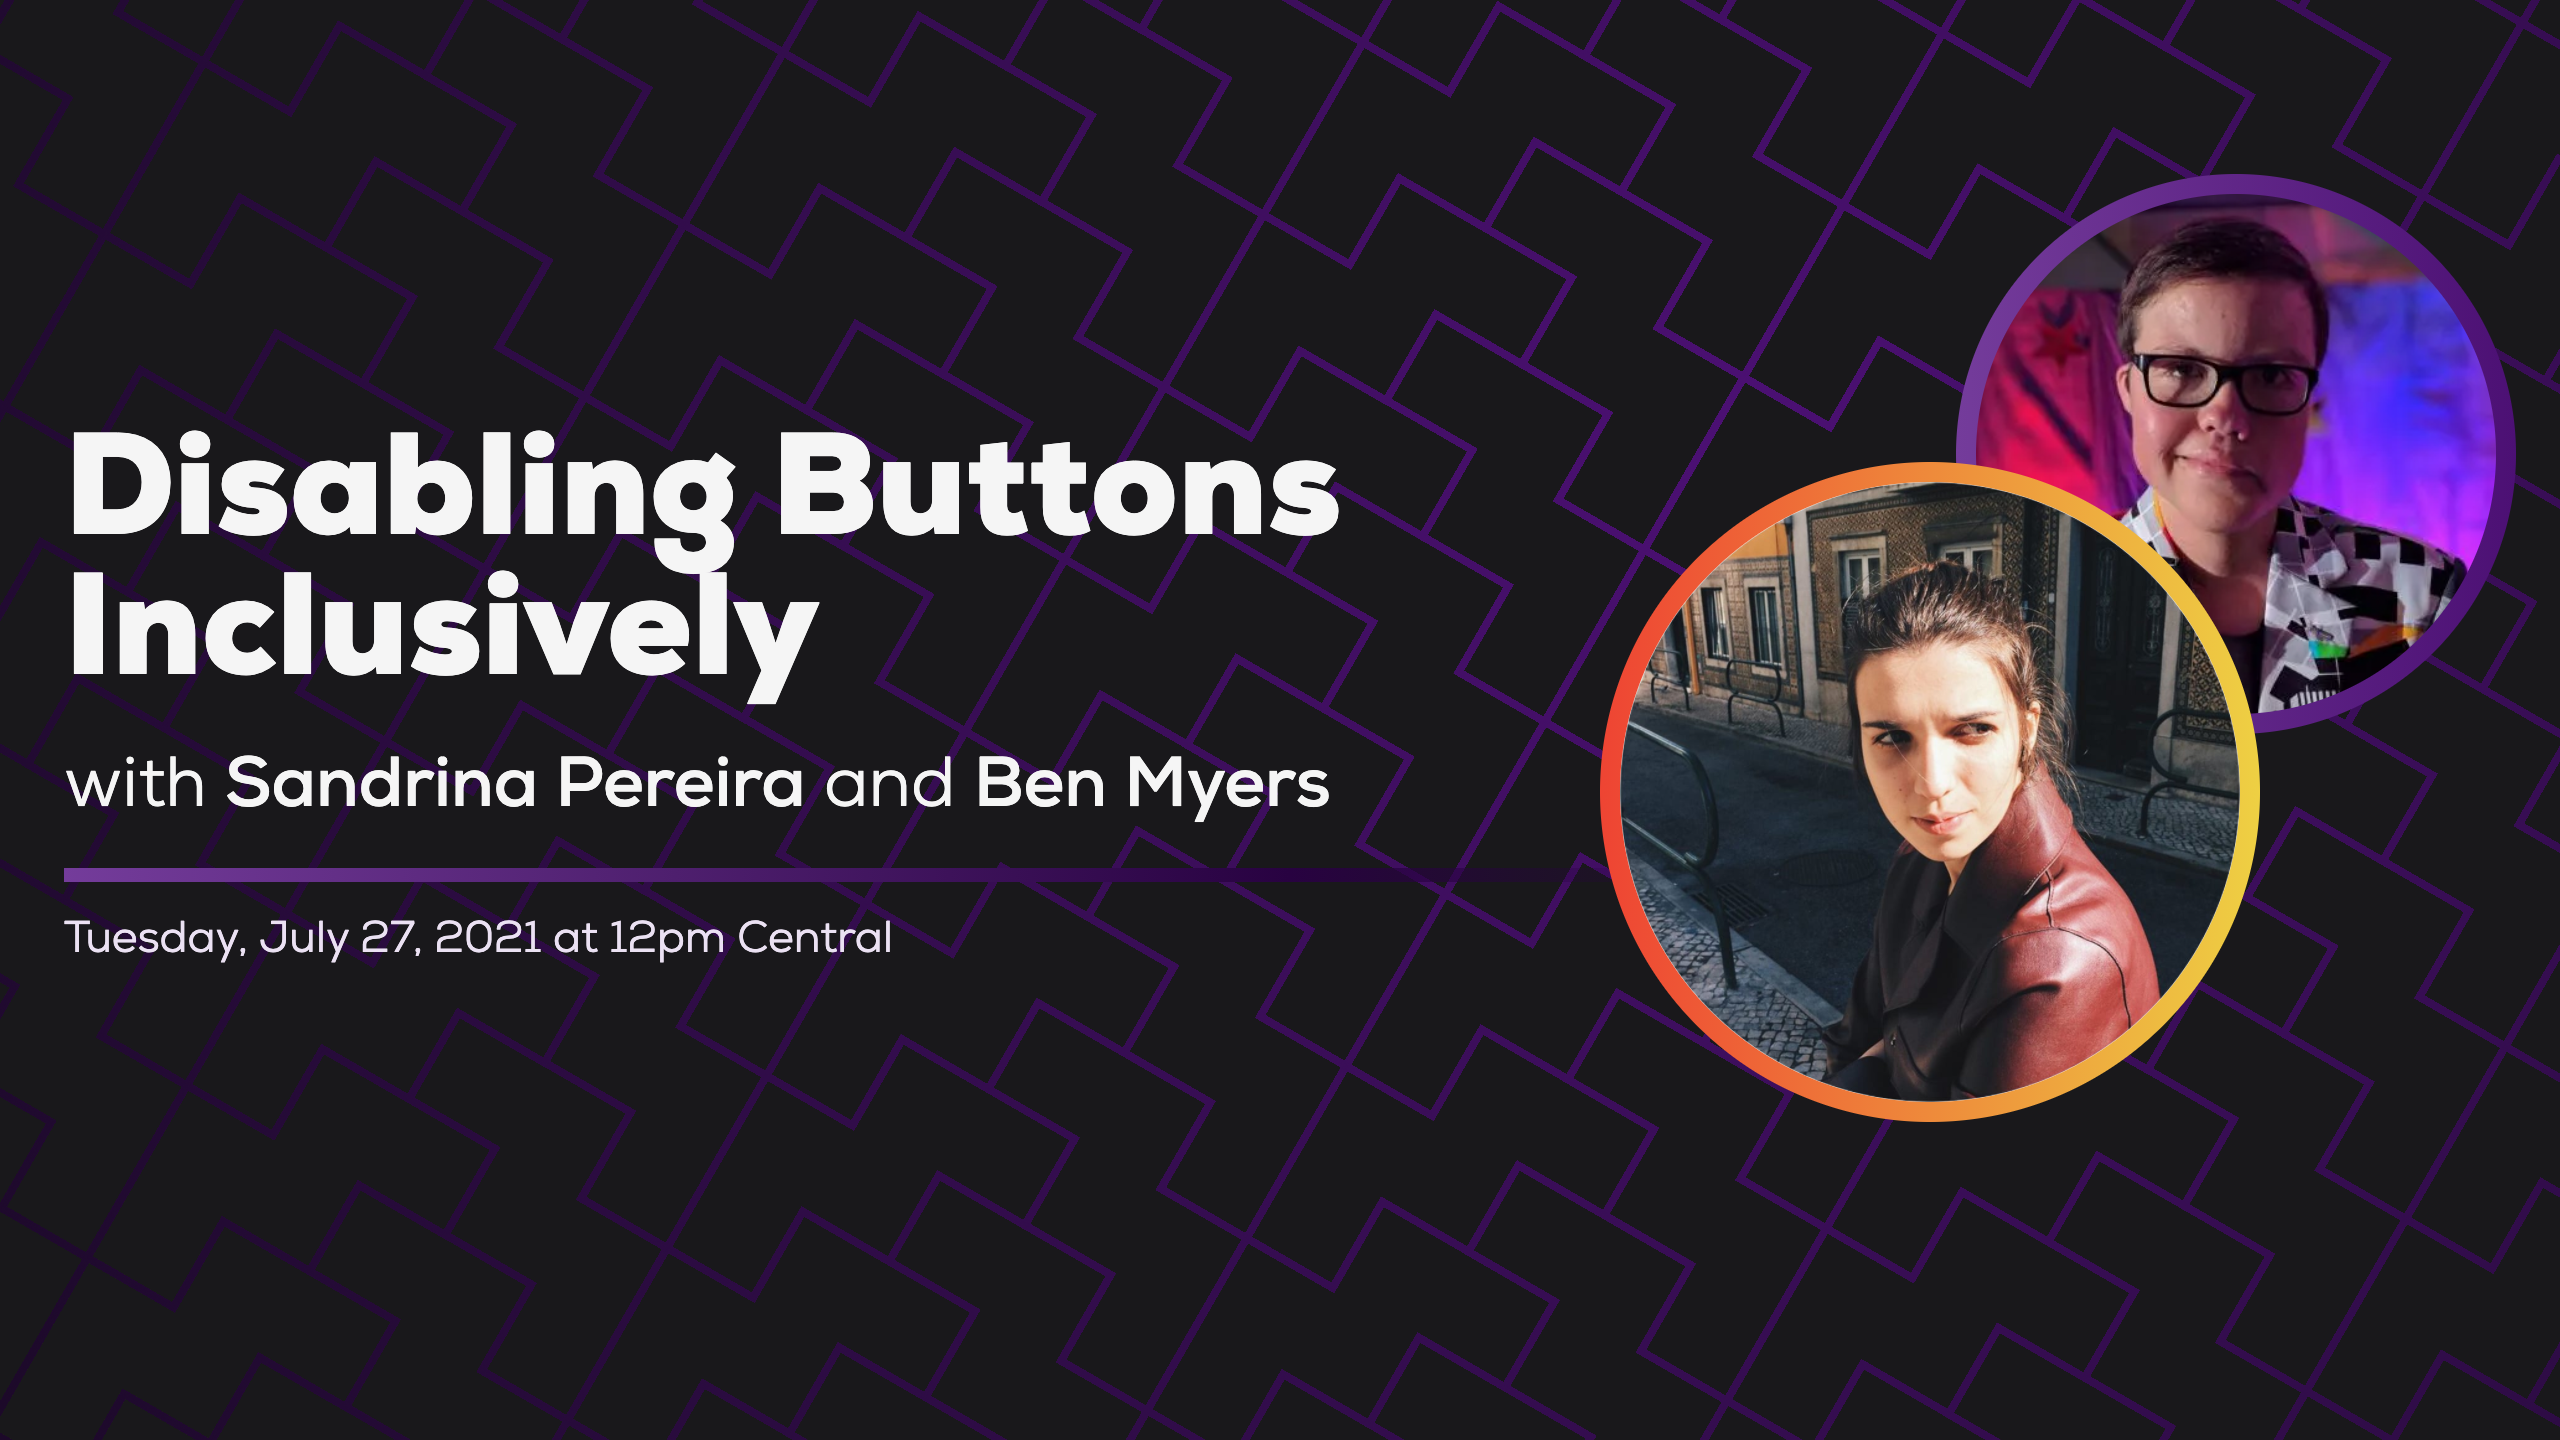
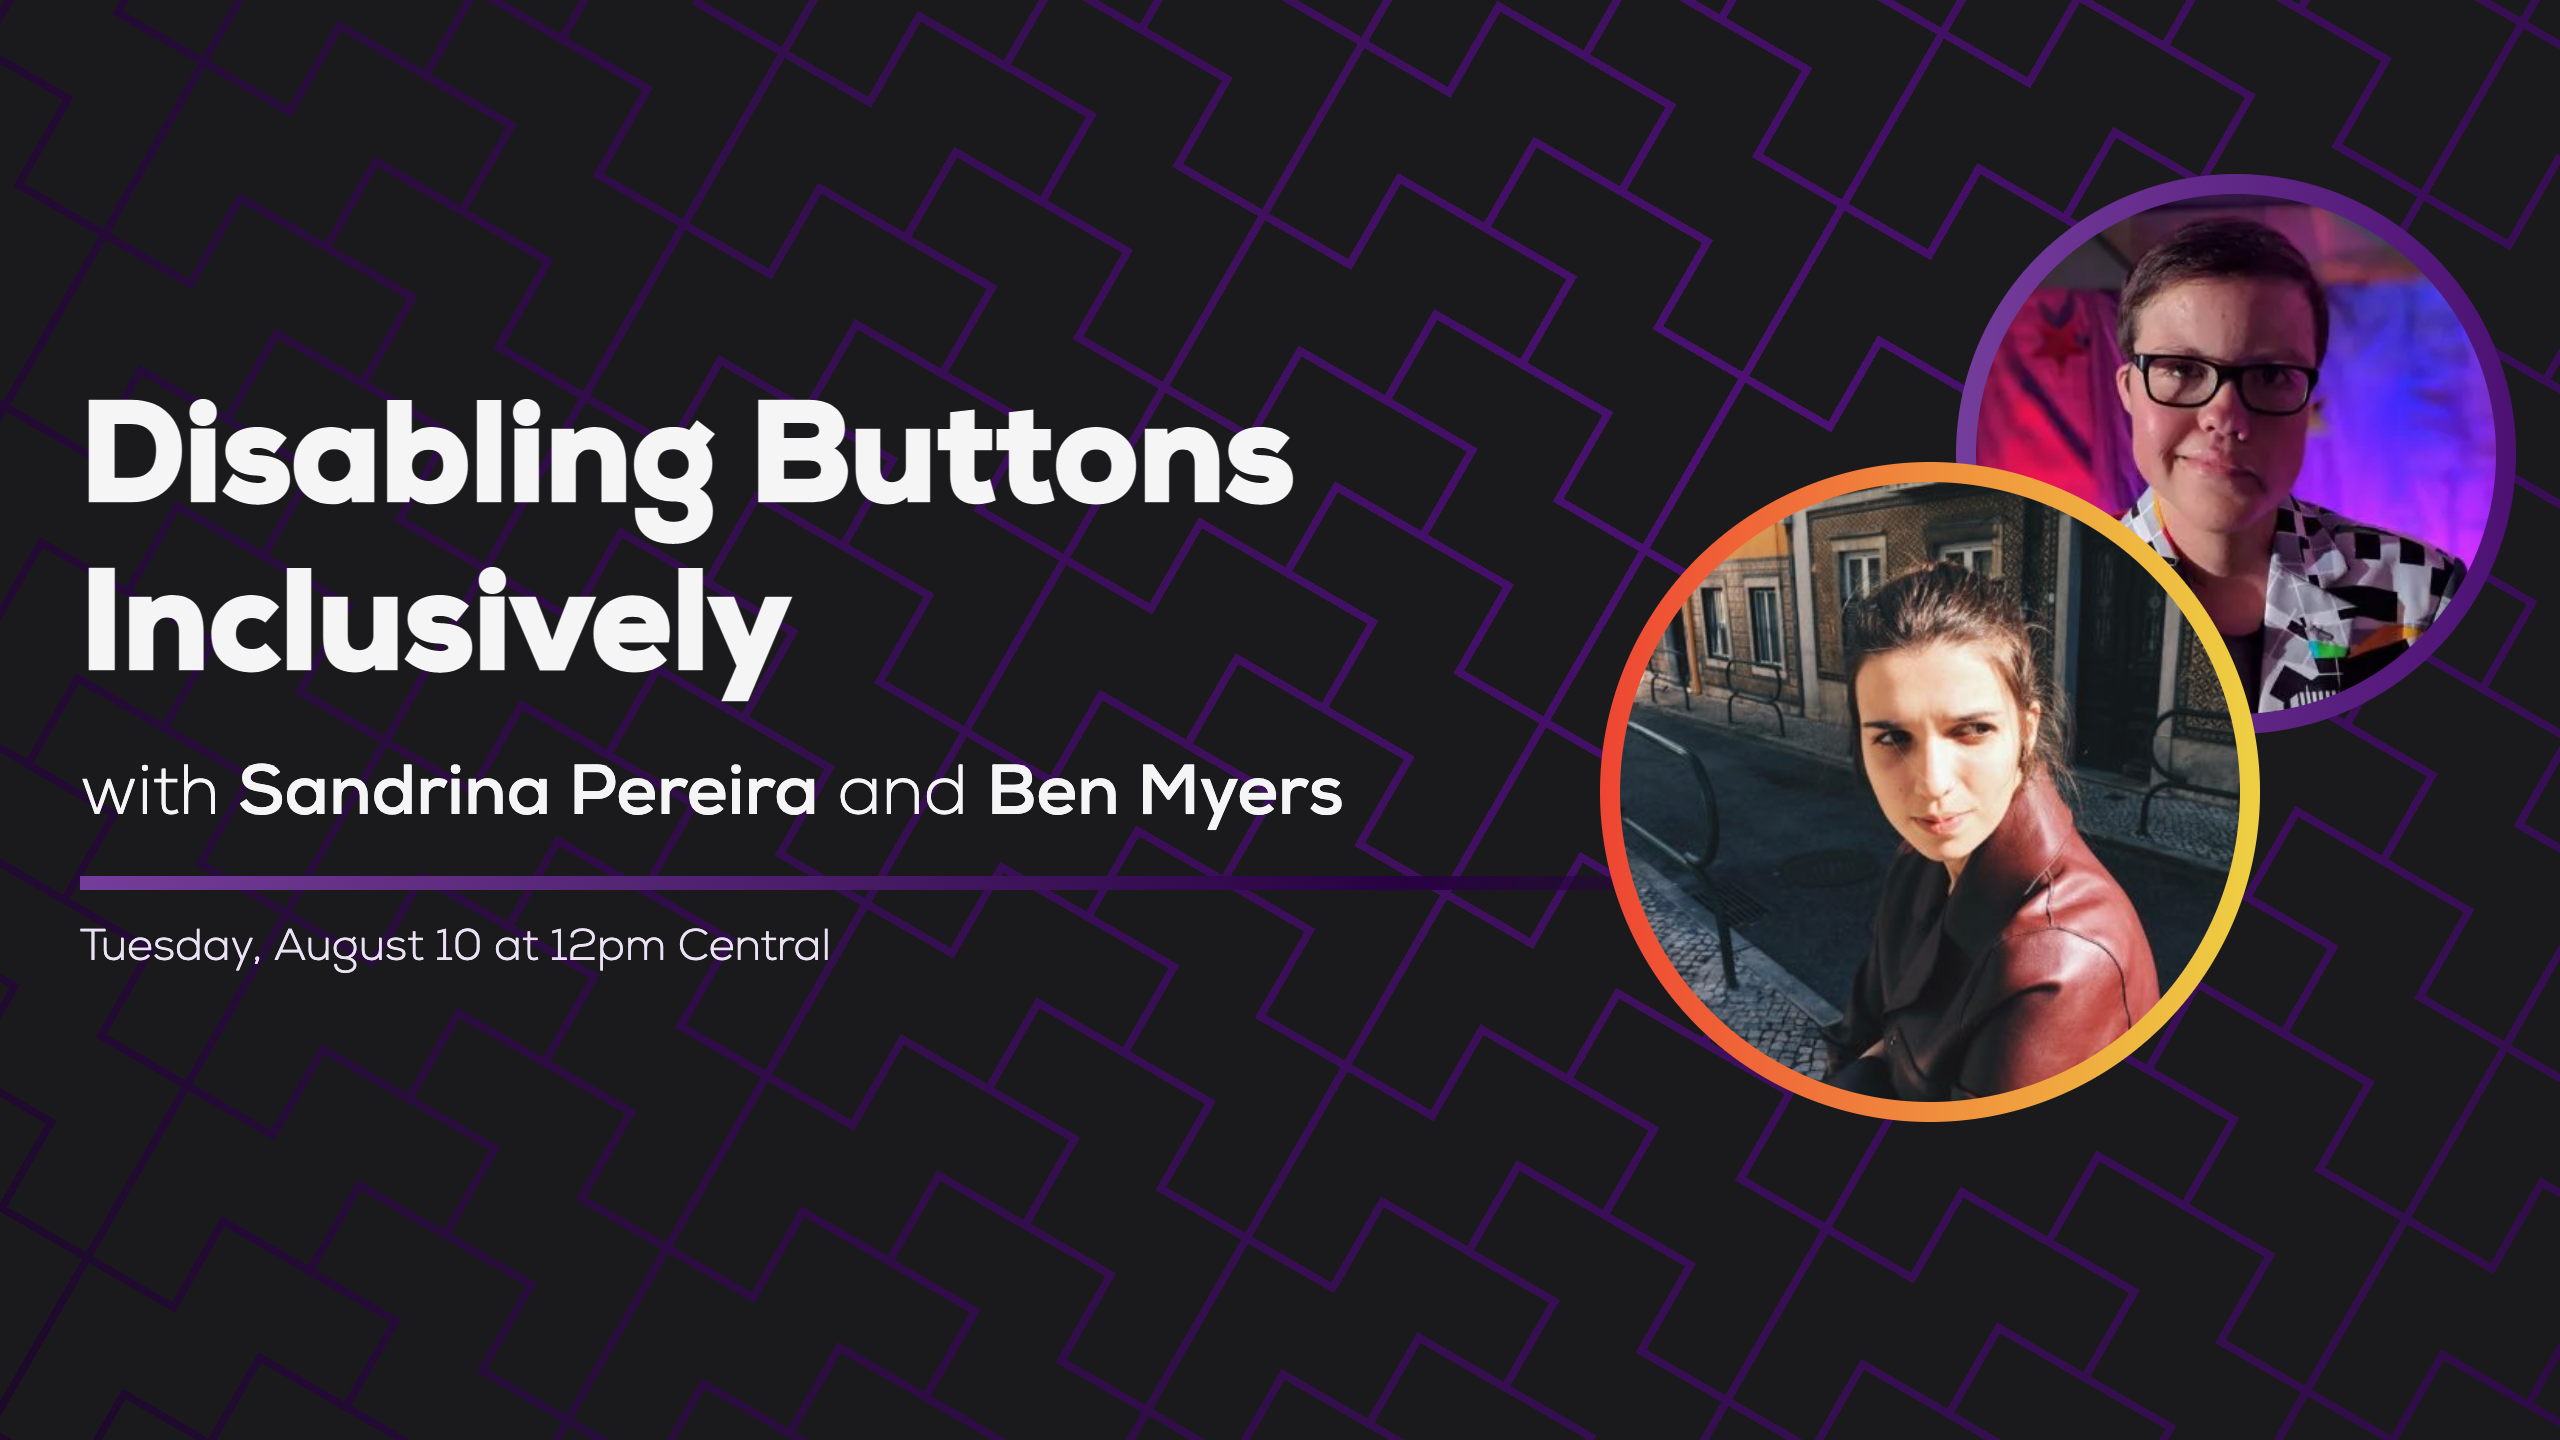
Update Sandrina's thumbnail

Changed region(s): [[0.0312, 0.2812, 0.5312, 0.5], [0.0312, 0.5312, 0.5938, 0.6875]]

diff --git a/src/thumbnail.html b/src/thumbnail.html
@@ -123,12 +123,12 @@
 		<header>
 			<!-- <h1>Accessibility in the<br/>Fashion Industry</h1>
 			<p id="hosts">with <b>Alex Ayaub</b> and <b>Adrianne Mallett</b></p> -->
-			<h1>Pragmatic Accessibility + Responsiveness in Polypane</h1>
-			<p id="hosts">with <b>Kilian Valkhof</b> and <b>Ben Myers</b></p>
-			<footer>Tuesday, August 17 at 12pm Central</p></footer>
+			<h1>Disabling Buttons Inclusively</h1>
+			<p id="hosts">with <b>Sandrina Pereira</b> and <b>Ben Myers</b></p>
+			<footer>Tuesday, August 10 at 12pm Central</p></footer>
 		</header>
 		<main>
-			<img id="avatar-1" src="{{ 'Kilian Valkhof' | avatar }}" alt="" />
+			<img id="avatar-1" src="https://pbs.twimg.com/profile_images/832718403727196160/hZQGzIVP_400x400.jpg" alt="" />
 			<div class="ring"></div>
 			<img id="avatar-2" src="{{ 'Ben Myers' | avatar}}" alt="" />
 			<div class="ring"></div>
